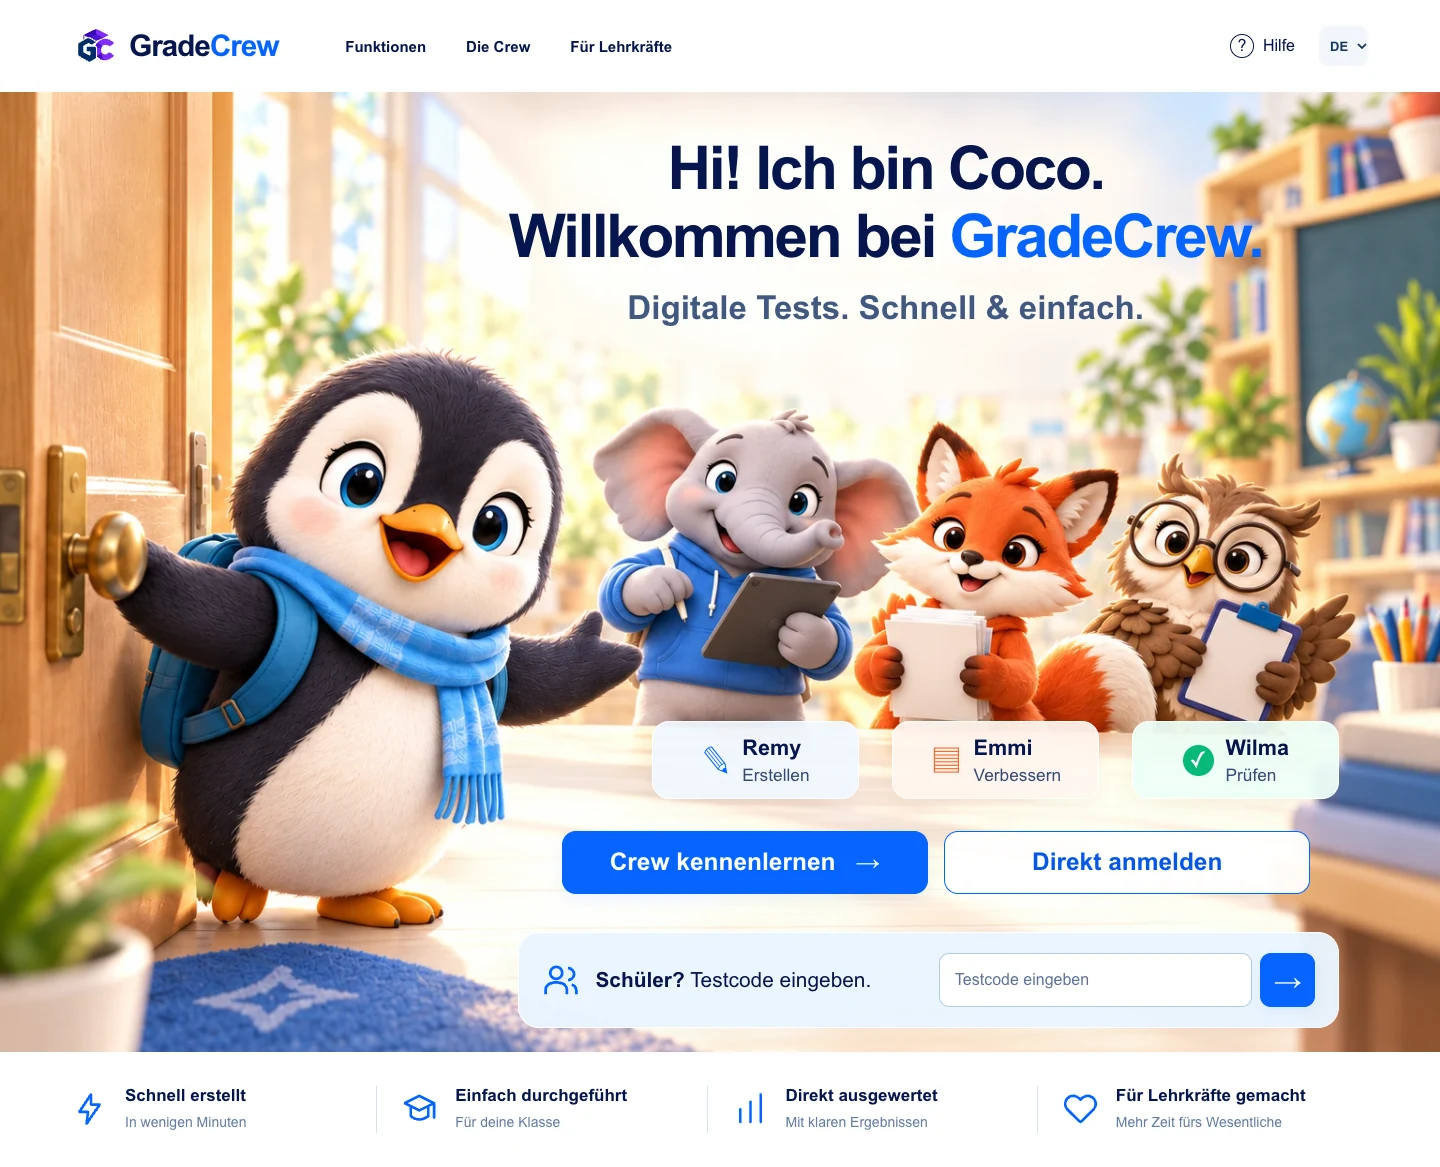
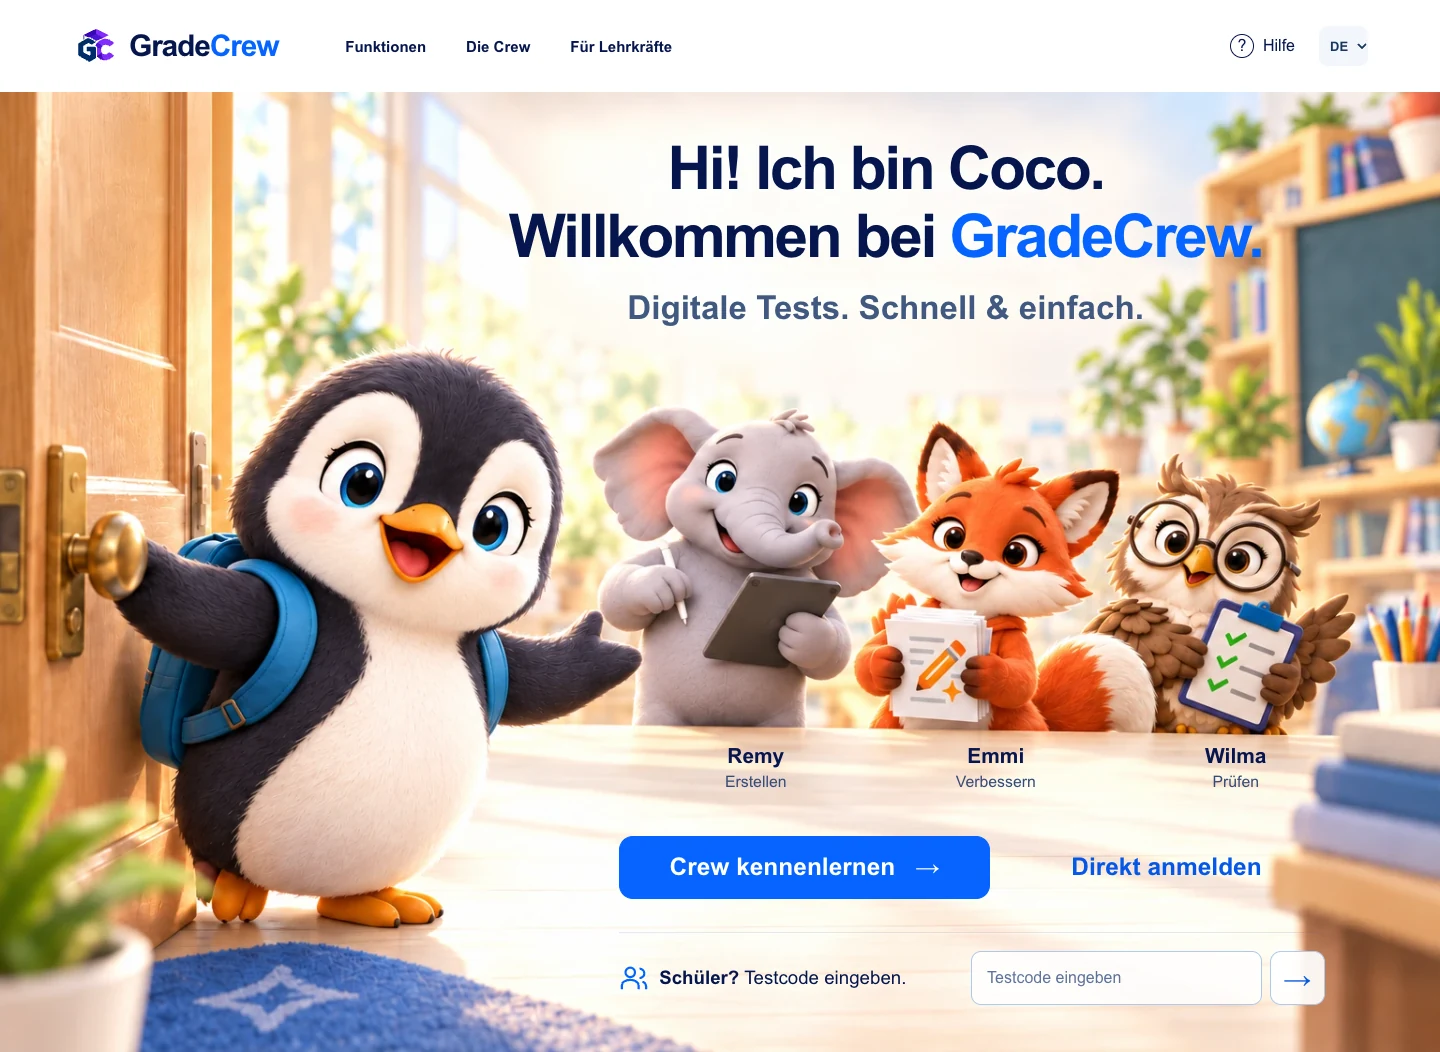
design: simplify welcome screen and clarify crew roles

diff --git a/art/gradecrew-hero/static-startscreen/index.html b/art/gradecrew-hero/static-startscreen/index.html
@@ -15,7 +15,7 @@
     <header class="header">
       <a class="brand" href="#welcome" aria-label="GradeCrew"><img src="assets/brand-primary-v1.svg" alt="" width="48" height="48"><span>Grade<span>Crew</span></span></a>
       <nav aria-label="Hauptnavigation" data-copy-aria="navigation">
-        <a href="#benefits" data-copy="features">Funktionen</a>
+        <button type="button" data-dialog="features" data-copy="features">Funktionen</button>
         <button type="button" data-dialog="crew" data-copy="crew">Die Crew</button>
         <button type="button" data-dialog="teachers" data-copy="teachers">Für Lehrkräfte</button>
       </nav>
@@ -26,15 +26,15 @@
     </header>
     <main id="welcome" tabindex="-1">
       <section class="hero" aria-labelledby="welcome-title">
-        <img class="scene" src="assets/crew-classroom.webp" width="1536" height="1024" alt="Coco öffnet die Klassenzimmertür. Remy, Emmi und Wilma begrüßen dich." data-copy-alt="sceneAlt" fetchpriority="high">
+        <img class="scene" src="assets/crew-classroom-v2.webp" width="1536" height="1024" alt="Coco öffnet die Klassenzimmertür. Remy, Emmi und Wilma begrüßen dich." data-copy-alt="sceneAlt" fetchpriority="high">
         <div class="welcome-copy">
           <h1 id="welcome-title"><span data-copy="greeting">Hi! Ich bin Coco.</span><span data-copy="welcome">Willkommen bei</span> <strong>GradeCrew.</strong></h1>
           <p data-copy="subtitle">Digitale Tests. Schnell & einfach.</p>
         </div>
         <div class="crew-roles" aria-label="Deine Crew" data-copy-aria="yourCrew">
-          <button class="role remy" data-dialog="remy"><span class="role-icon" aria-hidden="true">✎</span><span><strong data-copy="remyName">Remy</strong><small data-copy="remyRole">Erstellen</small></span></button>
-          <button class="role emmi" data-dialog="emmi"><span class="role-icon" aria-hidden="true">▤</span><span><strong data-copy="emmiName">Emmi</strong><small data-copy="emmiRole">Verbessern</small></span></button>
-          <button class="role wilma" data-dialog="wilma"><span class="role-icon check" aria-hidden="true">✓</span><span><strong data-copy="wilmaName">Wilma</strong><small data-copy="wilmaRole">Prüfen</small></span></button>
+          <button class="role remy" data-dialog="remy"><span><strong data-copy="remyName">Remy</strong><small data-copy="remyRole">Erstellen</small></span></button>
+          <button class="role emmi" data-dialog="emmi"><span><strong data-copy="emmiName">Emmi</strong><small data-copy="emmiRole">Verbessern</small></span></button>
+          <button class="role wilma" data-dialog="wilma"><span><strong data-copy="wilmaName">Wilma</strong><small data-copy="wilmaRole">Prüfen</small></span></button>
         </div>
         <div class="entry-actions">
           <button class="button primary" type="button" data-dialog="crew"><span data-copy="meetCrew">Crew kennenlernen</span><span aria-hidden="true">→</span></button>
@@ -44,12 +44,6 @@
           <label for="testCode"><svg viewBox="0 0 32 32" aria-hidden="true"><circle cx="12" cy="10" r="5"/><path d="M3 28v-4c0-8 18-8 18 0v4M22 6a5 5 0 0 1 0 10M25 20c4 1 4 4 4 8"/></svg><span><strong data-copy="student">Schüler?</strong> <span data-copy="enterCode">Testcode eingeben.</span></span></label>
           <div class="code-field"><input id="testCode" name="testCode" type="text" maxlength="16" autocomplete="off" autocapitalize="characters" spellcheck="false" placeholder="Testcode eingeben" data-copy-placeholder="codePlaceholder" required><button class="button primary code-submit" type="submit" aria-label="Test öffnen" data-copy-aria="openTest">→</button></div>
         </form>
-      </section>
-      <section class="benefits" id="benefits" aria-label="Vorteile" data-copy-aria="benefits">
-        <article><svg viewBox="0 0 24 24" aria-hidden="true"><path d="m13 2-8 12h6l-1 8 9-13h-6V2Z"/></svg><div><h2 data-copy="benefit1">Schnell erstellt</h2><p data-copy="benefit1Detail">In wenigen Minuten</p></div></article>
-        <article><svg viewBox="0 0 24 24" aria-hidden="true"><path d="m2 8 10-5 10 5-10 5L2 8Zm4 3v6c4 3 8 3 12 0v-6m4-3v10"/></svg><div><h2 data-copy="benefit2">Einfach durchgeführt</h2><p data-copy="benefit2Detail">Für deine Klasse</p></div></article>
-        <article><svg viewBox="0 0 24 24" aria-hidden="true"><path d="M5 21V12m7 9V7m7 14V2"/></svg><div><h2 data-copy="benefit3">Direkt ausgewertet</h2><p data-copy="benefit3Detail">Mit klaren Ergebnissen</p></div></article>
-        <article><svg viewBox="0 0 24 24" aria-hidden="true"><path d="M20.8 4.6a5.5 5.5 0 0 0-7.8 0L12 5.7l-1.1-1.1a5.5 5.5 0 0 0-7.8 7.8L12 21l8.8-8.6a5.5 5.5 0 0 0 0-7.8Z"/></svg><div><h2 data-copy="benefit4">Für Lehrkräfte gemacht</h2><p data-copy="benefit4Detail">Mehr Zeit fürs Wesentliche</p></div></article>
       </section>
     </main>
   </div>

diff --git a/art/gradecrew-hero/static-startscreen/styles.css b/art/gradecrew-hero/static-startscreen/styles.css
@@ -3,3 +3,30 @@
 @media(max-width:1100px) and (min-width:901px){.header{height:76px;padding:0 4%;gap:20px}.brand{font-size:26px}.brand img{width:40px;height:40px}.header nav{gap:22px;margin-left:10px}.header-tools{gap:16px}.header nav a,.header nav button{font-size:13px}.role{padding:10px 7px;min-height:58px;gap:7px;border-radius:12px}.role-icon{font-size:26px}.check{font-size:19px;width:25px;height:25px;line-height:25px}.button{min-height:48px;padding:12px}.join{padding:12px;gap:12px;border-radius:15px}.join label{gap:8px}.join label svg{width:27px}.code-field input{padding:10px;font-size:13px}.code-submit{min-height:44px;width:44px;font-size:23px}.benefits{padding:25px 4%;gap:15px}.benefits article{gap:10px;padding-right:12px}.benefits h2{font-size:14px}.benefits p{font-size:12px}.benefits svg{flex-basis:28px;width:28px}}
 @media(max-width:900px){body{background:white}.header{height:72px;padding:0 5%;gap:12px}.brand{font-size:25px}.brand img{width:36px;height:36px}.header nav,.help span:last-child{display:none}.header-tools{gap:18px}.hero{display:flex;flex-direction:column;aspect-ratio:auto;background:#fffaf3;padding-bottom:24px}.welcome-copy{position:relative;inset:auto;order:0;width:auto;padding:22px 18px 0;z-index:1}.welcome-copy h1{font-size:clamp(27px,6.8vw,44px);line-height:1.16;letter-spacing:-.035em}.welcome-copy p{font-size:clamp(16px,3.9vw,23px);margin-top:12px}.scene{position:relative;inset:auto;order:1;height:auto;z-index:0;margin-top:-25px;mask-image:linear-gradient(to bottom,transparent,#000 19%)}.crew-roles{position:relative;inset:auto;order:2;margin:-7% 5% 0;gap:8px;z-index:1}.role{padding:11px 7px;min-height:63px;border-radius:13px;gap:7px;box-shadow:0 4px 15px #684c2410}.role strong{font-size:16px}.role small{font-size:12px}.role-icon{font-size:25px}.check{width:24px;height:24px;line-height:24px;font-size:17px}.entry-actions{position:relative;inset:auto;order:3;margin:24px 5% 0;gap:10px;flex-direction:column}.button{font-size:17px;min-height:53px;padding:14px}.join{position:relative;inset:auto;order:4;margin:16px 5% 0;padding:17px;gap:12px;flex-wrap:wrap;border-radius:15px}.join label{font-size:16px;flex-basis:100%;gap:10px}.join label svg{width:28px;height:28px}.code-field{flex-basis:100%}.code-field input{font-size:16px}.code-submit{font-size:25px;min-height:50px;width:50px}.benefits{grid-template-columns:1fr 1fr;padding:26px 6%;gap:26px 15px}.benefits article{border:0;padding:0;gap:10px;align-items:flex-start}.benefits h2{font-size:14px}.benefits p{font-size:12px}.benefits svg{flex-basis:25px;width:25px;height:30px}}
 @media(prefers-reduced-motion:reduce){html{scroll-behavior:auto}}
+
+/* V2: reduce competing panels while keeping translated labels in the DOM. */
+.crew-roles{top:67%;gap:2.3cqw}
+.role,.role.emmi,.role.wilma{background:transparent;border:0;box-shadow:none;padding:8px 12px;min-height:62px;text-align:center;border-radius:10px}
+.role:hover{background:#ffffff70}
+.role strong{font-size:clamp(16px,1.45cqw,22px)}
+.role small{font-size:clamp(13px,1.1cqw,17px);margin-top:4px}
+.entry-actions{top:77.5%;left:43%;right:8%;align-items:center;gap:18px}
+.entry-actions .primary{flex:1.2;box-shadow:none}
+.entry-actions .secondary{flex:1;border-color:transparent;background:transparent;font-weight:600}
+.join{top:87.5%;left:43%;right:8%;border:0;border-top:1px solid #516e9c26;border-radius:0;background:transparent;box-shadow:none;padding:18px 0;gap:15px}
+.join label{font-size:clamp(14px,1.3cqw,20px);gap:10px}
+.join label svg{width:30px}
+.join .code-field{flex:1.05}
+.join .code-field input{background:#ffffffdc}
+.join .code-submit{background:#ffffffe8;color:#075adc;border-color:#b0c9ed;box-shadow:none}
+@media(max-width:1100px) and (min-width:901px){.role{min-height:45px;padding:6px}.join{padding:13px 0;gap:9px}.join label{font-size:13px}.join label svg{width:23px}.entry-actions{gap:8px}}
+@media(max-width:900px){
+  .hero{padding-bottom:12px;background:#fffaf3}
+  .crew-roles{top:auto;gap:8px;margin:-4% 5% 0}
+  .role,.role.emmi,.role.wilma{padding:10px 3px;min-height:60px}
+  .role strong{font-size:17px}.role small{font-size:13px}
+  .entry-actions{inset:auto;margin:14px 5% 0;gap:5px;align-items:stretch}
+  .entry-actions .secondary{min-height:45px;font-size:15px}
+  .join{inset:auto;margin:10px 5% 0;padding:20px 0 12px;gap:13px}
+  .join label{font-size:15px}.join label svg{width:25px}
+}

diff --git a/art/gradecrew-hero/static-startscreen/copy.js b/art/gradecrew-hero/static-startscreen/copy.js
@@ -2,7 +2,7 @@
 window.GRADECREW_COPY = {
   de: {
     title: 'GradeCrew – Digitale Tests. Schnell & einfach.', skip: 'Zum Inhalt springen', navigation: 'Hauptnavigation',
-    features: 'Funktionen', crew: 'Die Crew', teachers: 'Für Lehrkräfte', help: 'Hilfe', language: 'Sprache',
+    featuresTitle: 'Einfach vom Entwurf zum Ergebnis.', featuresBody: 'Tests in wenigen Minuten erstellen, mit deiner Klasse durchführen und Ergebnisse übersichtlich auswerten. Deine Crew unterstützt dich bei jedem Schritt.', features: 'Funktionen', crew: 'Die Crew', teachers: 'Für Lehrkräfte', help: 'Hilfe', language: 'Sprache',
     greeting: 'Hi! Ich bin Coco.', welcome: 'Willkommen bei', subtitle: 'Digitale Tests. Schnell & einfach.',
     sceneAlt: 'Coco öffnet die Klassenzimmertür. Remy, Emmi und Wilma begrüßen dich.', yourCrew: 'Deine Crew',
     remyName: 'Remy', emmiName: 'Emmi', wilmaName: 'Wilma', remyRole: 'Erstellen', emmiRole: 'Verbessern', wilmaRole: 'Prüfen',
@@ -22,7 +22,7 @@ window.GRADECREW_COPY = {
   },
   en: {
     title: 'GradeCrew – Digital tests. Quick & easy.', skip: 'Skip to content', navigation: 'Main navigation',
-    features: 'Features', crew: 'The crew', teachers: 'For teachers', help: 'Help', language: 'Language',
+    featuresTitle: 'From first draft to clear results.', featuresBody: 'Create tests in minutes, run them with your class and review clear results. Your crew supports you every step of the way.', features: 'Features', crew: 'The crew', teachers: 'For teachers', help: 'Help', language: 'Language',
     greeting: 'Hi! I’m Coco.', welcome: 'Welcome to', subtitle: 'Digital tests. Quick & easy.',
     sceneAlt: 'Coco opens the classroom door. Remy, Emmi and Wilma welcome you.', yourCrew: 'Your crew',
     remyName: 'Remy', emmiName: 'Emmi', wilmaName: 'Wilma', remyRole: 'Create', emmiRole: 'Improve', wilmaRole: 'Review',

diff --git a/TODO.md b/TODO.md
@@ -38,7 +38,7 @@ Bei „Was steht auf der To-do-Liste?“ diese Datei frisch von GitHub lesen und
 | GC-DESIGN-02 | Neuer Test, Editor und KI-Erstellung auf gemeinsame Komponenten umstellen | Geplant | Nach Dashboard-Abnahme schrittweise; Import- und Bewertungsfunktionen erhalten. |
 | GC-DESIGN-03 | Startscreen Masterpiece v2 mit Multi-KI-Guardian veredeln | Automatisch aufgenommen, bei unklarem Provider-Ergebnis gestoppt | CSS-only, unveränderte Entry-/Startup-Blobs und module-web-v1; ein Versuch mit 2,40 USD Reservierung, Gesamtdeckel weiterhin 2,55 USD. Pilot-Staging bestätigt; Homepage-Run 37220142576 scheiterte beim Builder mit unbekanntem Provider-Ergebnis. Reservierung erhalten, kein automatischer neuer Versuch; Provider-Ergebnis/Kosten zuerst abgleichen. Alle drei KI-Reviews bleiben Pflicht. Finale visuelle Abnahme bleibt bei Martin. [Übergabe](workstreams/design-startscreen-multiai-v2.md) |
 | GC-DESIGN-04 | Startscreen Masterpiece v4 / Premium-Polish mit i18n-Grenze | **Hosting-Preview deployed; visuelle Geräteabnahme offen** | GPT-6.1-Sol-Kandidat aus Run 37230004552 deterministisch von CSS-content-Verstoß bereinigt, ohne neuen Provider-Build. PR #123 → Integrationscommit `fb88dfa7…`; CI 37231463662 und Preview 37231545703 grün, 111 Dateien verifiziert. DE/EN Startscreen bleibt vollständig über DOM/i18n umschaltbar; Test- und Bewertungssprache unabhängig. Drei Guardian-Reviews auf dem salvagierten Kandidaten wurden nicht nachgeholt und dürfen nicht als bestanden gelten. Jetzt Desktop/iPad/Phone + DE/EN im echten Preview abnehmen. [Übergabe](workstreams/design-startscreen-multiai-v4.md) |
-| GC-DESIGN-05 | Startscreen Hero Scene + First-Visit-Animation | **Statischer Startbildschirm als Web-Vorschau; visuelle Nutzerabnahme offen** | Gemeinsame textfreie Crew-Szene und responsive HTML-Vorschau mit editierbaren DE/EN-Texten gebaut. 12 Browser-Prüfabschnitte bestanden (5 Breiten, Sprachwechsel, Layout, Tastatur). [Vorschauquellen/Bild/Belege](art/gradecrew-hero/static-startscreen/README.md). Keine App-Integration oder Animation; nächste Aktion visuelles Feedback einarbeiten. Bestehende Blender-Quellen und Budgethistorie erhalten; Production unverändert. [Übergabe](workstreams/startscreen-hero-animation-20261004.md) |
+| GC-DESIGN-05 | Startscreen Hero Scene + First-Visit-Animation | **Statische Richtung positiv bewertet; ruhigere Revision 2 umgesetzt** | Coco ohne Schal, Remy ausdrücklich ohne Pulli/mit Tablet; Emmi mit Bearbeitungssymbol, Wilma mit Prüfhaken. Weiße Vorteilsleiste/Karten reduziert. DE/EN bleiben editierbares HTML. 12 Browser-Prüfabschnitte erneut bestanden; [Quellen/Bild/Belege](art/gradecrew-hero/static-startscreen/README.md). V2-Abnahme und App-Integration offen, Animation nachrangig. Kein Deploy. [Übergabe](workstreams/startscreen-hero-animation-20261004.md) |
 | GC-DIAGNOSTICS-01 | Fehler nachvollziehbar sammeln und Admin-Logs besser filtern | Stand prüfen | Vorhandene Diagnostics/Log-Tools inventarisieren; Referenz-ID, Version, Ablauf, Filter und Sortierung prüfen; keine Antworten oder Zugangsdaten protokollieren. |
 | GC-BUGOPS-01 | Fehlerberichte skalierbar bündeln, priorisieren, gezielt melden und risikoarme Fälle bis Staging automatisiert beheben | **Staging deployed; Admin-/Browserabnahme offen** | Web-Inbox, serverseitige Incident-Aggregation und Admin-Attention-Badge sind in `feature/gradecrew-app-integration@bb91ce3` integriert. Combined CI `37238513381`, Hosting `37238585607` und AI-Functions `37238585657` grün; `aggregateBugFeedback` + `getBugOpsSummary` auf Staging bestätigt. Production unverändert. Auto-Reparatur aus echten Kundenmeldungen bleibt noch gesperrt; nächster Schritt: Staging praktisch testen und danach read-only Investigator → sichere Guardian-Brücke bauen. [Übergabe](workstreams/bug-ops-v1.md) |
 | GC-CLASSROOM-01 | Schüler:innen-/Klassenverwaltung mit pseudonymen Codes und Klassenfreigaben | **Masterprojekt gesichert; branch_only, noch kein Produktcode** | `feature/classroom-student-management-v1` wurde vom aktuellen Integrationshead `bb91ce3` angelegt. Architektur nutzt den bestehenden Secure-Assessment-Lifecycle statt einer zweiten Exam-Engine: StudentIdentity, Klassen/Memberships, persönliche Codes und `assessmentAssignments`. Nächster Schritt ausschließlich statische Firebase-freie Mock-Testseite auf dem Aufgabenbranch; kein normales Staging/Production. [Masterplan](docs/CLASSROOM_STUDENT_MASTERPROJECT_V1.md) · [Übergabe](workstreams/classroom-student-management-v1.md) |

diff --git a/workstreams/startscreen-hero-animation-20261004.md b/workstreams/startscreen-hero-animation-20261004.md
@@ -319,3 +319,14 @@ Offen: Bildabnahme einschließlich blauer Augenakzente gegenüber dunkleren kano
 Aktive Zuständigkeit: dieser Ersatz-/Fortsetzungschat 01a10e98-1e57-7b40-af70-555fdfdae2e3. Lokaler Vorschau-Server 127.0.0.1:8768 (exec session4464) bleibt für Martin geöffnet. Keine laufende Bild-/Rendergenerierung. Frühere Sol-/Astra-Quellen und Versuchshistorie unverändert. Sicherung dieser Lieferung gesammelt im selben PR; exakter neuer Commit wird im Abschluss genannt.
 
 Genau nächster Schritt: Martins visuelles Feedback zum jetzt vorliegenden statischen Startbildschirm einarbeiten; erst anschließend bestehende App-Handler/i18n anbinden, Animation nachrangig.
+
+
+## 06.10.2026 — Ruhigere Revision 2 nach positivem Nutzerfeedback
+
+Martin: erste statische Richtung gut; Coco ohne Schal, Rollen von Emmi/Wilma durch Zeichen verdeutlichen und überladenen unteren weißen Bereich vereinfachen. Rückfrage Remy ausdrücklich beantwortet: ohne Pulli, mit Tablet. Aktuelle Umsetzung: gezielter Bildedit mit diesen vier Änderungen, keine neue Komposition; neue Datei crew-classroom-v2.webp (187.680 Bytes), V1 erhalten. Sprachunabhängiges Bearbeitungssymbol auf Emmis Papier und grüne Prüfhaken auf Wilmas Klemmbrett, weiterhin keine eingebrannten Wörter. Ein zusätzlicher built-in image_gen-Aufruf; insgesamt zwei statische Bildaufrufe, keine bezahlte API-/Higgsfield-/Blender-Weiterarbeit und keine Budgetrücksetzung. Exakter Edit-Prompt IMAGE_PROMPT_V2.txt.
+
+Layout: weiße Vorteilsleiste entfernt, Inhalte jetzt über Funktionen-Dialog; Crew-Namen/Rollen ohne drei Karten und doppelte Symbole, Anmeldung als dezenter Textbutton, Codefeld ohne große Hintergrundkarte. HTML-Texte weiterhin DE/EN editierbar. Nur derselbe statische Preview-Unterordner plus TODO/Übergabe geändert. Ausgang remote91ab6db7; Development Status37416892343 erfolgreich. Integrations-/Production-Zustand unverändert branch_only; kein App-Anschluss/Deploy.
+
+Nachweise: aktuelle verify.cjs-Ausführung mit12 bestandenen Abschnitten und0 JS-Ausnahmen; DE/EN bei fünf Breiten, UI-Grenzen, Sprachwechsel, Funktionen-/Crew-Dialoge und Tastatur. Desktop DE/Mobil DE visuell geprüft; Screenshots und JSON aktualisiert. Original-V2-PNG lokal zusätzlich erhalten, veröffentlichungsfähiges WebP und Prompt im Repo gesichert. Nutzer hat die Richtung befürwortet, V2 noch nicht abgenommen. Auto-Reload des bestehenden IAB-Tabs durch nicht verfügbare Sicherheitsprüfung blockiert, keine Umgehung; zuvor erstellte isolierte Chrome-Prüfnachweise vorhanden. Lokaler Server8768 bleibt bestehen.
+
+Genau nächster Schritt: visuelles Feedback zu Revision2; danach bestehende App/i18n-Anbindung. Animation bleibt nachrangig.

diff --git a/art/gradecrew-hero/static-startscreen/README.md b/art/gradecrew-hero/static-startscreen/README.md
@@ -27,4 +27,15 @@ Desktop DE und Mobil EN als WebP im Repository; vier PNG-Screenshots lokal erhal
 
 Reproduktion: Server auf `127.0.0.1:8768` in diesem Ordner starten, dann `PLAYWRIGHT_MODULE=<playwright-Modul> CHROME_PATH=<Chrome-Binary> node verify.cjs`.
 
-Nächster Schritt: Martins visuelles Feedback zu genau diesem Startbildschirm einarbeiten; danach denselben Text-/Bildaufbau in den vorhandenen App-Einstieg integrieren. Animation bleibt nachrangig.
+Nächster Schritt: visuelle Abnahme der überarbeiteten Fassung; danach vorhandene App-Handler/i18n anbinden. Animation bleibt nachrangig.
+
+
+## Revision 2 — Rückmeldung umgesetzt
+
+Martin bewertet die erste statische Richtung positiv und beauftragt eine ruhigere Fassung: Coco ohne Schal, Remy nach ausdrücklicher Auswahl ohne Pulli, mit Tablet. Emmis Papier trägt ein oranges Bearbeitungssymbol, Wilmas Klemmbrett grüne Prüfhaken. Diese sprachunabhängigen Zeichen sind Teil der Illustration; Wörter bleiben vollständig im HTML-Katalog.
+
+Aktives Bild: `assets/crew-classroom-v2.webp`, 187.680 Bytes. V1 bleibt erhalten. Ein zusätzlicher gezielter built-in image_gen-Edit, insgesamt zwei Bildaufrufe für die statische Szene, kein Retry; Prompt `IMAGE_PROMPT_V2.txt`. Original V2-PNG lokal erhalten.
+
+Weiße Vorteilsleiste entfernt, Funktionen über übersetzten Dialog zugänglich. Crew-Beschriftungen ohne Karten und doppelte Symbole, Anmeldung ohne umrandeten Button, Codefeld ohne große Hintergrundkarte. Bestehende DE/EN-Texte und zugängliche Bedienelemente bleiben separat. Die Bildkomposition und Identitäten sind weitgehend erhalten; keine neue 3D-/Animationsarbeit.
+
+Aktuelle Browserprüfung erneut 12 Abschnitte bestanden (DE/EN, fünf Breiten, Layout, Dialoge inkl. Funktionen, Tastatur); Desktop DE/Mobil DE visuell angesehen. Prüfbilder/JSON beziehen sich jetzt auf V2. Keine JS-Ausnahmen. Kein echter Gerätetest, App-Anschluss oder Deploy. Das automatische Aktualisieren des offenen In-App-Browser-Tabs war durch eine nicht verfügbare Browser-Sicherheitsprüfung blockiert; die Dateien und isolierten Chrome-Prüfnachweise wurden vorher erfolgreich erstellt. Martin kann die bestehende Vorschau selbst neu laden.
